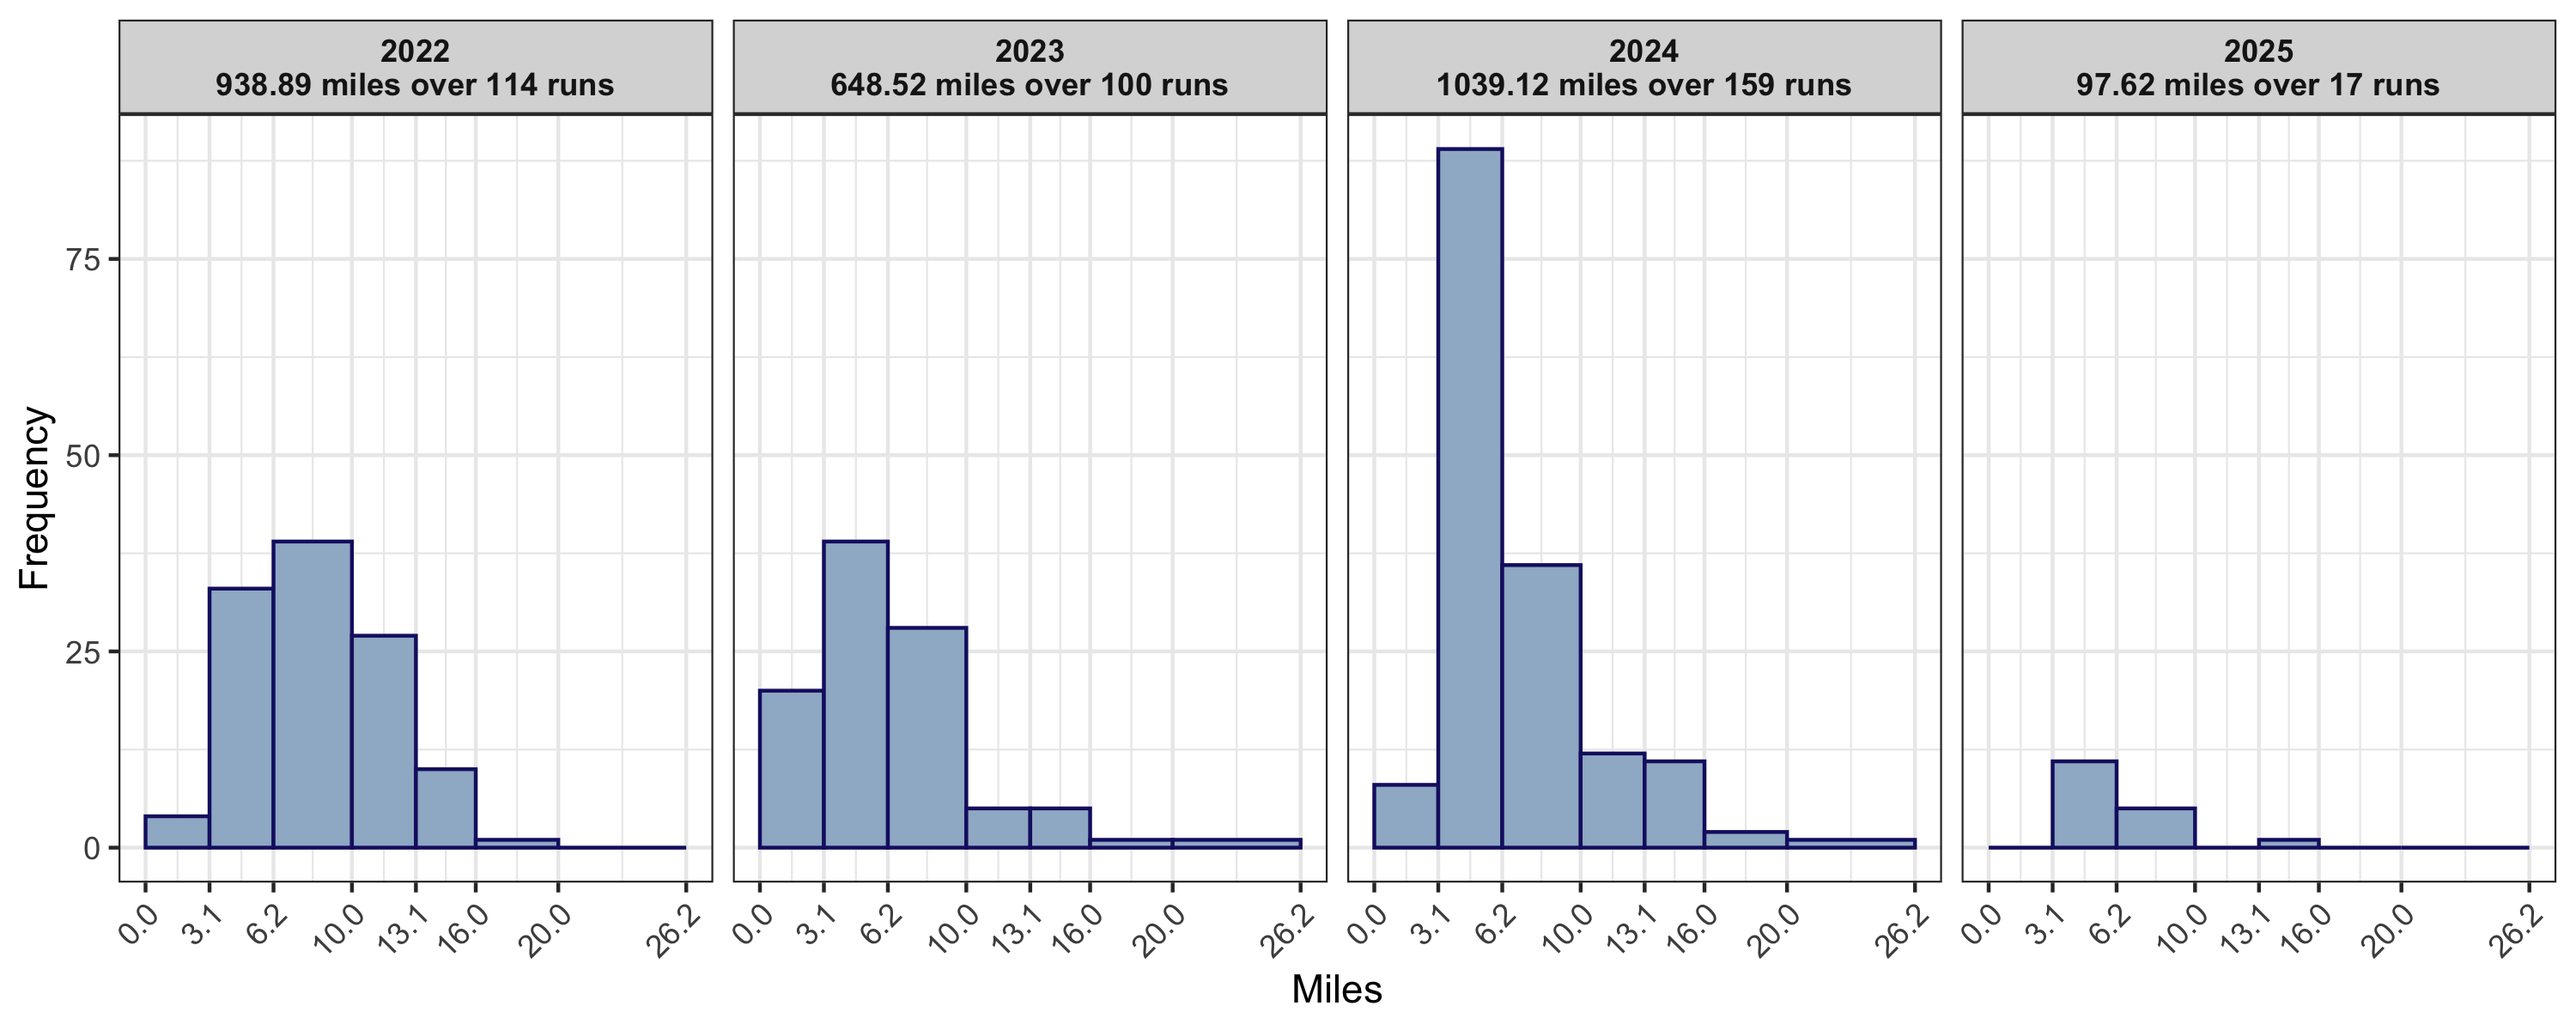
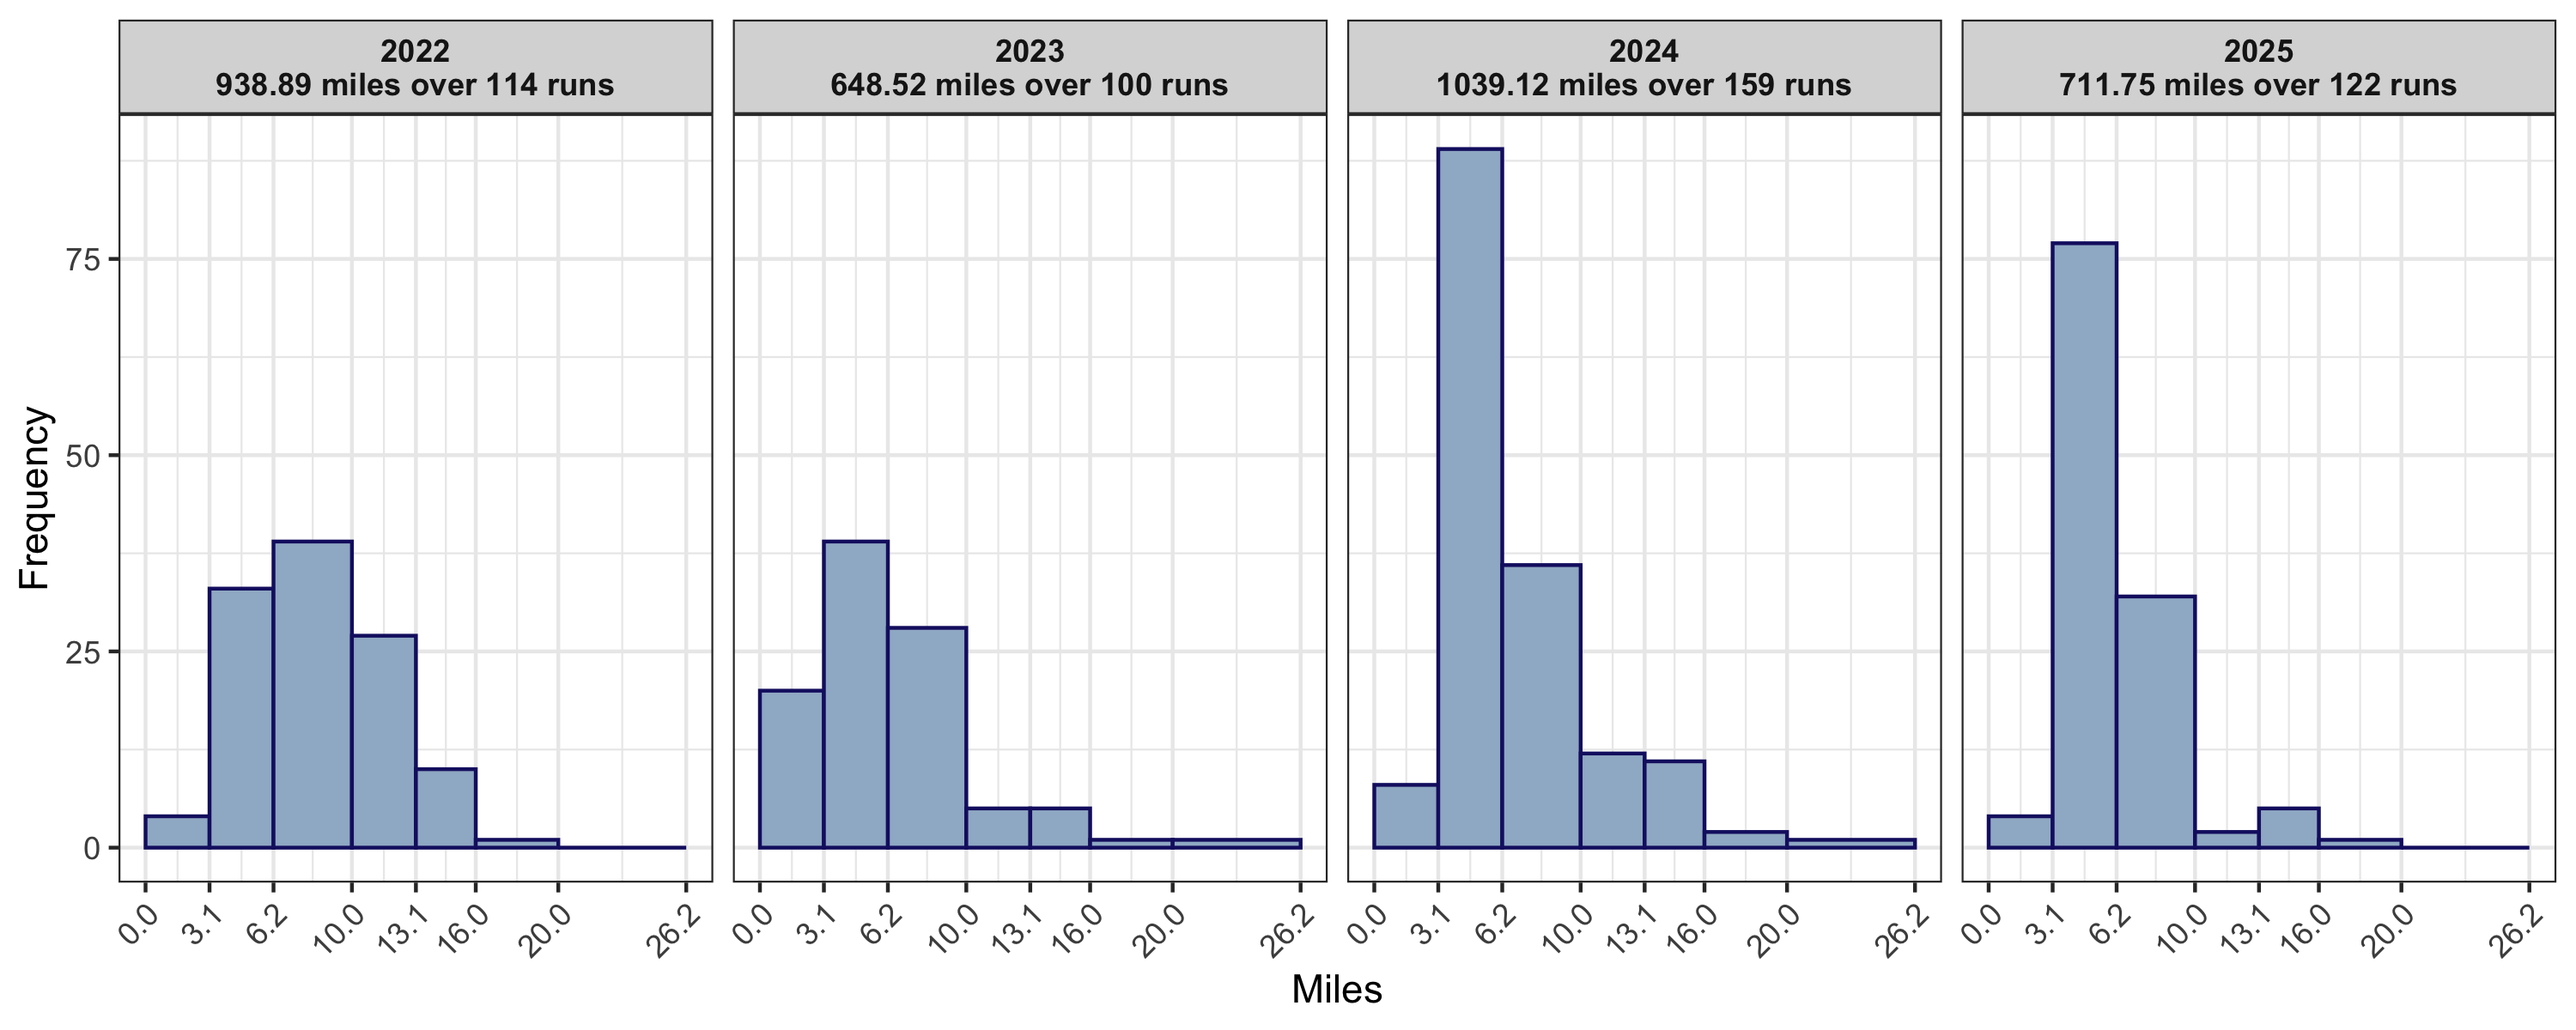
1/29/25 - 8/13/25

Changed region(s): [[0.775, 0.2158, 0.93, 0.8325], [0.899, 0.0617, 0.961, 0.0925], [0.806, 0.0617, 0.837, 0.0925]]

diff --git a/README.md b/README.md
@@ -46,7 +46,7 @@ Total miles since 11/29/21:
 sum(runningData$Miles)
 ```
 
-    ## [1] 2794.6
+    ## [1] 3408.73
 
 Average distance over last ten runs:
 
